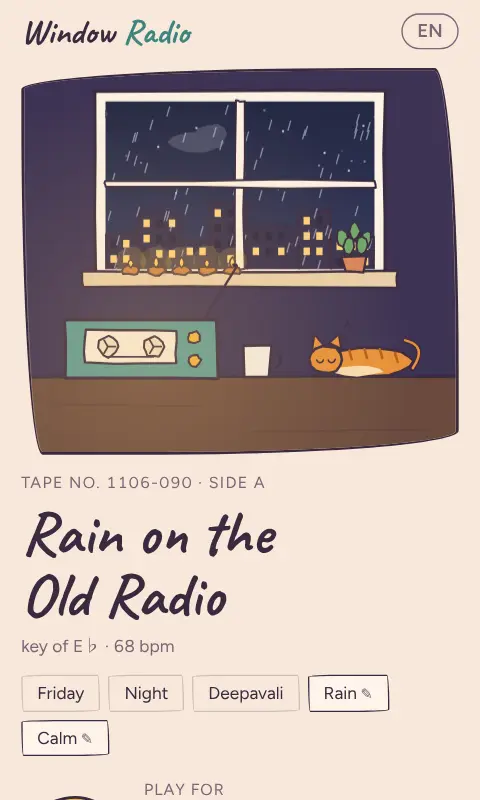
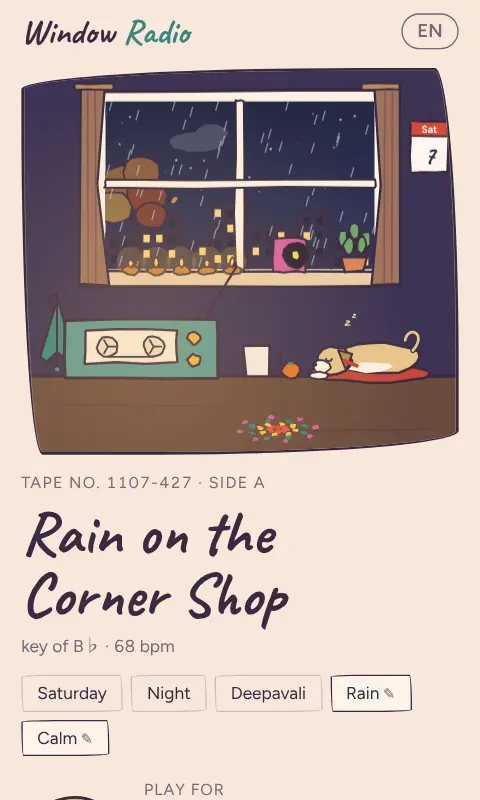
Window Radio: new listing picture (Mantou, Deepavali night)
Claude-Session: https://claude.ai/code/session_0148vArL2i4wagEXipodkMLS

diff --git a/portfolio/index.html b/portfolio/index.html
@@ -936,7 +936,7 @@ img{filter:none}
         <a class="nt" href="https://www.after-hours.work/ask-popo/" target="_blank" rel="noopener noreferrer" style="--glow:#E8A838"><span class="nt-shot"><img src="/after-hours/ask-popo.webp?v=5764d504" width="480" height="800" loading="lazy" alt=""></span><span class="nt-txt"><span class="nt-n">09</span><b><span data-i18n="apName">Ask Popo</span></b><span class="nt-l" data-i18n="apL">One question a week, asked in person.</span><span class="nt-go"><span data-i18n="apGo">Open Ask Popo</span> ↗</span></span></a>
         <a class="nt" href="https://www.after-hours.work/walk-with/" target="_blank" rel="noopener noreferrer" style="--glow:#9BB08A"><span class="nt-shot"><img src="/after-hours/walk-with.webp?v=f77276fb" width="480" height="800" loading="lazy" alt=""></span><span class="nt-txt"><span class="nt-n">10</span><b><span data-i18n="wwName">Walk With</span></b><span class="nt-l" data-i18n="wwL">Twenty minutes, one corner, phones away.</span><span class="nt-go"><span data-i18n="wwGo">Open Walk With</span> ↗</span></span></a>
         <a class="nt" href="https://www.after-hours.work/along-the-way/" target="_blank" rel="noopener noreferrer" style="--glow:#C8303A"><span class="nt-shot"><img src="/after-hours/along-the-way.webp?v=f27de8a8" width="480" height="800" loading="lazy" alt=""></span><span class="nt-txt"><span class="nt-n">11</span><b><span data-i18n="awName">Along the Way</span></b><span class="nt-l" data-i18n="awL">A few lines a day. A road you can keep.</span><span class="nt-go"><span data-i18n="awGo">Open Along the Way</span> ↗</span></span></a>
-        <a class="nt" href="https://www.after-hours.work/window-radio/" target="_blank" rel="noopener noreferrer" style="--glow:#F0B13A"><span class="nt-shot"><img src="/after-hours/window-radio.webp?v=3e9f151b" width="480" height="800" loading="lazy" alt=""></span><span class="nt-txt"><span class="nt-n">12</span><b><span data-i18n="wrName">Window Radio</span></b><span class="nt-l" data-i18n="wrL">Lo-fi from your window. The day writes the tape.</span><span class="nt-go"><span data-i18n="wrGo">Open Window Radio</span> ↗</span></span></a>
+        <a class="nt" href="https://www.after-hours.work/window-radio/" target="_blank" rel="noopener noreferrer" style="--glow:#F0B13A"><span class="nt-shot"><img src="/after-hours/window-radio.webp?v=19aa10fd" width="480" height="800" loading="lazy" alt=""></span><span class="nt-txt"><span class="nt-n">12</span><b><span data-i18n="wrName">Window Radio</span></b><span class="nt-l" data-i18n="wrL">Lo-fi from your window. The day writes the tape.</span><span class="nt-go"><span data-i18n="wrGo">Open Window Radio</span> ↗</span></span></a>
         <a class="nt" href="https://www.after-hours.work/get-well-soup/" target="_blank" rel="noopener noreferrer" style="--glow:#E2654A"><span class="nt-shot"><img src="/after-hours/get-well-soup.webp?v=234dbfa1" width="480" height="800" loading="lazy" alt=""></span><span class="nt-txt"><span class="nt-n">13</span><b><span data-i18n="gwName">Get Well Soup</span></b><span class="nt-l" data-i18n="gwL">Someone's got a cold? Put a pot on for them.</span><span class="nt-go"><span data-i18n="gwGo">Open Get Well Soup</span> ↗</span></span></a>
         <a class="nt" href="https://www.after-hours.work/cook-for-someone/" target="_blank" rel="noopener noreferrer" style="--glow:#E8A838"><span class="nt-shot"><img src="/after-hours/cook-for-someone.webp?v=8a3390ce" width="480" height="800" loading="lazy" alt=""></span><span class="nt-txt"><span class="nt-n">14</span><b><span data-i18n="cfName">Cook for Someone</span></b><span class="nt-l" data-i18n="cfL">Popo's recipe box, for whoever's eating.</span><span class="nt-go"><span data-i18n="cfGo">Open Cook for Someone</span> ↗</span></span></a>
         <a class="nt" href="https://www.after-hours.work/mix-for-someone/" target="_blank" rel="noopener noreferrer" style="--glow:#E3B764"><span class="nt-shot"><img src="/after-hours/mix-for-someone.webp?v=383f558a" width="480" height="800" loading="lazy" alt=""></span><span class="nt-txt"><span class="nt-n">15</span><b><span data-i18n="mxName">Mix for Someone</span></b><span class="nt-l" data-i18n="mxL">Next Door's House book, zero-proof too.</span><span class="nt-go"><span data-i18n="mxGo">Open Mix for Someone</span> ↗</span></span></a>
